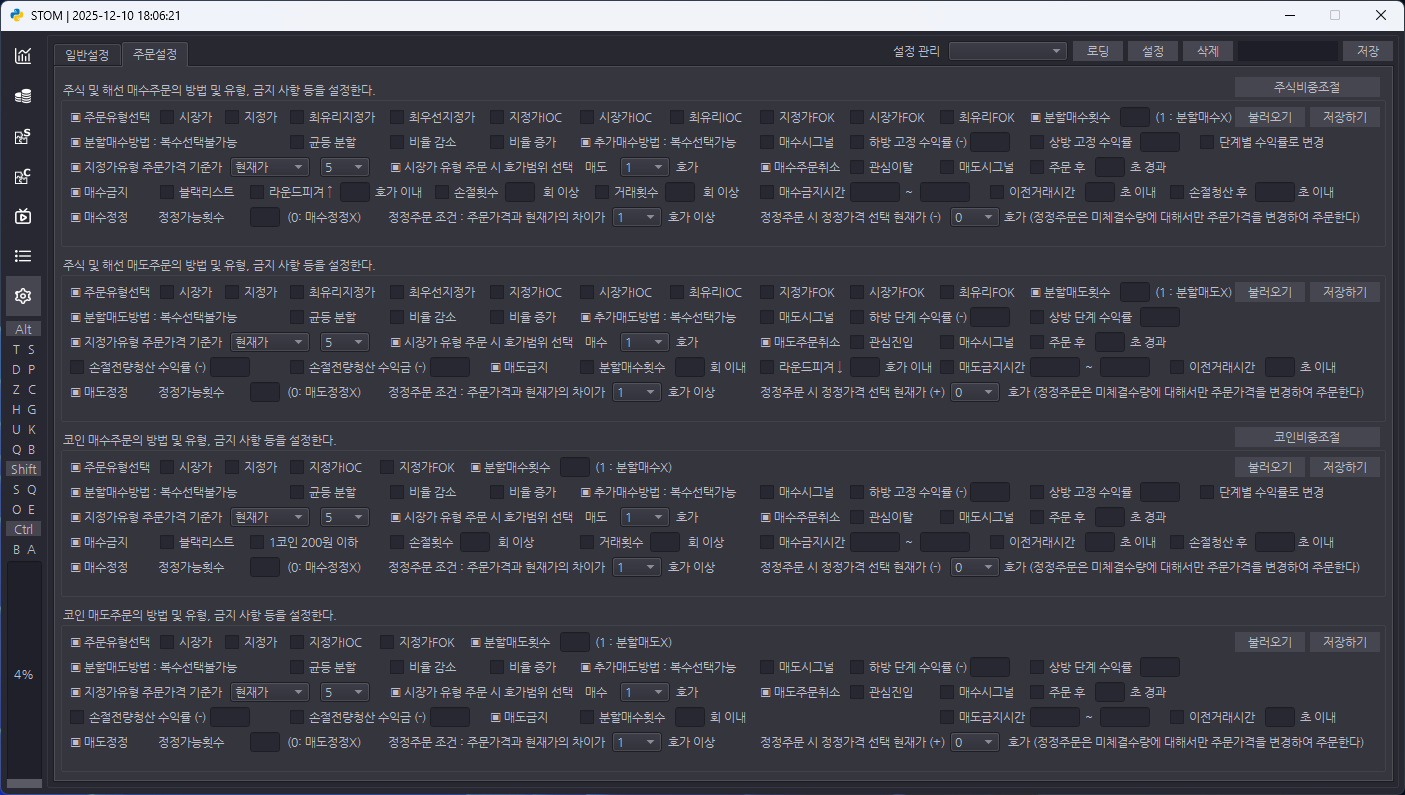
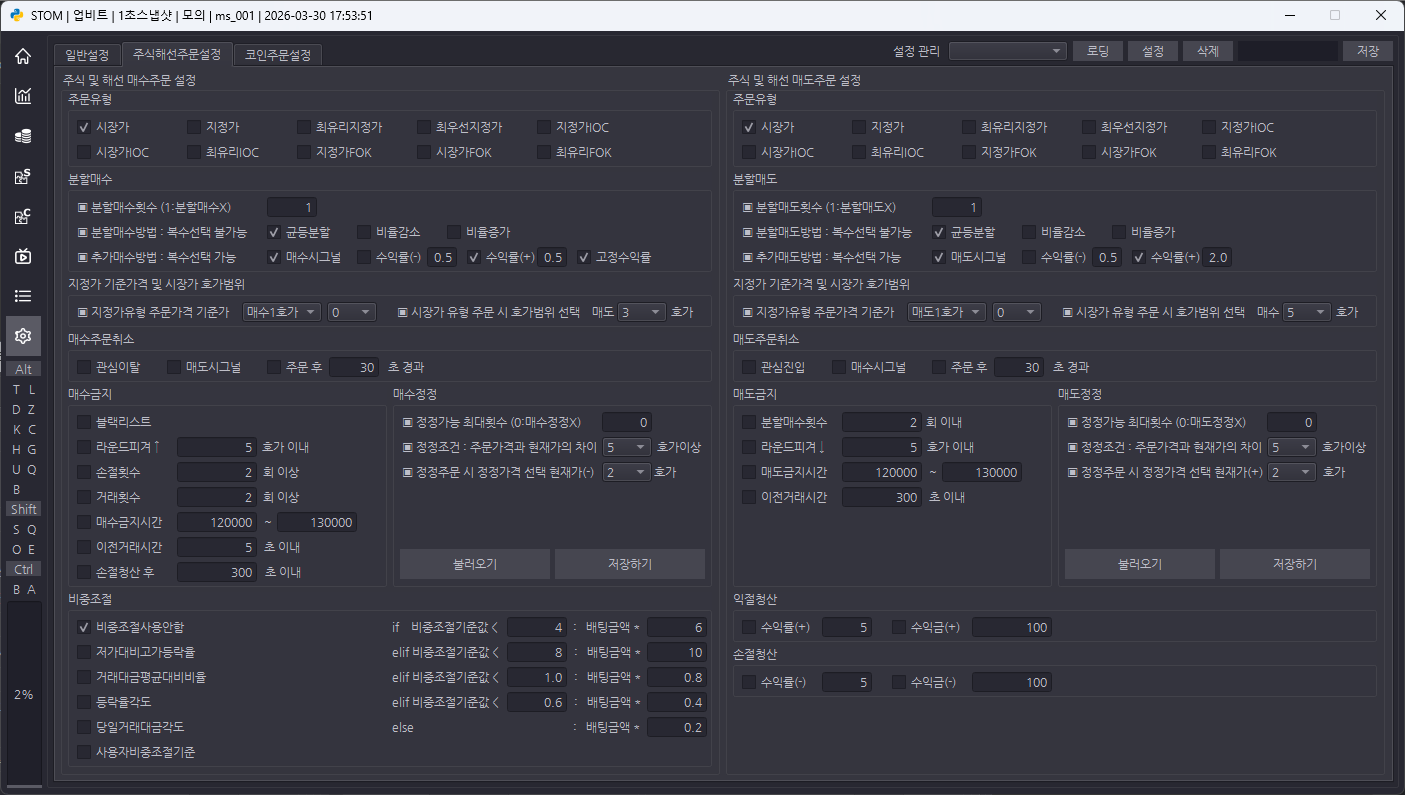
STOM V2.73
2026-03-30 V2.73
1. 실시간차트 분봉 속도 개선
2. 차트 정보창 캔들스틱에 가려지는 현상 수정
3. websocket async loop 시작 방법 변경
4. 텔레그램봇 타임아웃 5초 -> 30초로 변경 및 예외처리 강화
5. 텔레그램봇 체결목록 버튼 삭제
6. 아이템이 없는 빈 테이블에서 종목명 고정 테이블에 아이템이 남는 현상 수정
7. README.md 수정

diff --git a/ui/ui_draw_chart_base.py b/ui/ui_draw_chart_base.py
@@ -33,6 +33,7 @@ class DrawChartBase:
         self.same_time  = False
 
         self.crosshair  = CrossHair(self.ui)
+        self.cached_min_max = {}
 
         self.rgb_red    = (200, 100, 100)
         self.rgb_blue   = (100, 100, 200)
@@ -161,20 +162,66 @@ class DrawChartBase:
             }
 
     def update_ctpg_date(self):
-        if self.drop_zero_factors is None:
-            self.drop_zero_factors = self.get_drop_zero_factors()
-
-        clen = len(self.ui.ctpg_arry[0, :])
-        for i in range(clen):
-            tick_arry = self.ui.ctpg_arry[:, i]
-            if i in self.drop_zero_factors:
-                self.ui.ctpg_data[i] = tick_arry[tick_arry != 0]
-            else:
-                self.ui.ctpg_data[i] = tick_arry
+        if self.same_time:
+            self._incremental_update()
+        else:
+            self._process_all_data()
 
         tlen = len(self.ui.ctpg_arry)
         self.last = tlen - 1
         self.len_list = [tlen - len(x) for x in self.ui.ctpg_data.values()]
+
+    def _incremental_update(self):
+        for i, row in enumerate(self.ui.ctpg_arry[-1]):
+            if len(self.ui.ctpg_data[i]) > 0:
+                self.ui.ctpg_data[i][-1] = row
+
+    def _process_all_data(self):
+        if self.drop_zero_factors is None:
+            self.drop_zero_factors = self.get_drop_zero_factors()
+
+        for i, col in enumerate(self.ui.ctpg_arry.T):
+            if i in self.drop_zero_factors:
+                self.ui.ctpg_data[i] = col[col != 0]
+            else:
+                self.ui.ctpg_data[i] = col
+
+    def get_optimized_min_max(self, fidx_list):
+        fidx_tuple = fidx_list if isinstance(fidx_list, tuple) else (fidx_list,)
+        if self.same_time and fidx_tuple in self.cached_min_max:
+            self._incremental_min_max_update(fidx_tuple)
+        else:
+            self._full_min_max_calculation(fidx_tuple)
+
+    def _incremental_min_max_update(self, fidx_tuple):
+        cached_ymax, cached_ymin = self.cached_min_max[fidx_tuple]
+        new_values = []
+        for fidx in fidx_tuple:
+            if fidx in self.ui.ctpg_data and len(self.ui.ctpg_data[fidx]) > 0:
+                new_values.append(self.ui.ctpg_data[fidx][-1])
+
+        if new_values:
+            new_max = max(new_values)
+            new_min = min(new_values)
+            self.ymax = max(cached_ymax, new_max)
+            self.ymin = min(cached_ymin, new_min)
+            self.cached_min_max[fidx_tuple] = (self.ymax, self.ymin)
+        else:
+            self.ymax, self.ymin = cached_ymax, cached_ymin
+
+    def _full_min_max_calculation(self, fidx_tuple):
+        all_values = []
+        for fidx in fidx_tuple:
+            if fidx in self.ui.ctpg_data and len(self.ui.ctpg_data[fidx]) > 0:
+                all_values.extend(self.ui.ctpg_data[fidx])
+
+        if all_values:
+            self.ymax = max(all_values)
+            self.ymin = min(all_values)
+            self.cached_min_max[fidx_tuple] = (self.ymax, self.ymin)
+        else:
+            self.ymax, self.ymin = 0, 0
+            self.cached_min_max[fidx_tuple] = (0, 0)
 
     def get_drop_zero_factors(self):
         if self.is_min:
@@ -211,8 +258,7 @@ class DrawChartBase:
             if factor == '현재가':
                 if self.is_min:
                     fidx1, fidx2, fidx3, fidx4 = self.dict_idxs[factor]
-                    self.ymax = self.ui.ctpg_data[fidx3].max()
-                    self.ymin = self.ui.ctpg_data[fidx4].min()
+                    self.get_optimized_min_max((fidx3, fidx4))
                     self.draw_area(i)
                     for idx, color in zip(self.dict_idxs['이동평균'], self.sma_colors):
                         self.draw_line(i, idx, color)
@@ -221,8 +267,7 @@ class DrawChartBase:
                     if self.real: self.draw_infinite_line(i, fidx1)
                 else:
                     fidx1 = self.fi('현재가')
-                    self.ymax = self.ui.ctpg_data[fidx1].max()
-                    self.ymin = self.ui.ctpg_data[fidx1].min()
+                    self.get_optimized_min_max(fidx1)
                     self.draw_area(i)
                     for idx, color in zip(self.dict_idxs['이동평균'], self.sma_colors):
                         self.draw_line(i, idx, color)
@@ -236,8 +281,7 @@ class DrawChartBase:
             elif factor in ('초당거래대금', '분당거래대금'):
                 try:
                     fidx1, fidx2 = self.dict_idxs[factor]
-                    self.ymax = self.ui.ctpg_data[fidx1].max()
-                    self.ymin = self.ui.ctpg_data[fidx2].min()
+                    self.get_optimized_min_max((fidx1, fidx2))
                     self.draw_area(i)
                     self.draw_formula(i, factor)
                     if self.is_min:
@@ -253,8 +297,7 @@ class DrawChartBase:
                             '당일매도수금액', '최고매도수금액', '최고매도수가격', '호가총잔량', '매도수호가잔량1'):
                 try:
                     fidx1, fidx2 = self.dict_idxs[factor]
-                    self.ymax = max(self.ui.ctpg_data[fidx1].max(), self.ui.ctpg_data[fidx2].max())
-                    self.ymin = min(self.ui.ctpg_data[fidx1].min(), self.ui.ctpg_data[fidx2].min())
+                    self.get_optimized_min_max((fidx1, fidx2))
                     self.draw_area(i)
                     self.draw_formula(i, factor)
                     self.draw_line(i, fidx1, self.rgb_blue)
@@ -265,8 +308,7 @@ class DrawChartBase:
             elif factor == '체결강도':
                 try:
                     fidx1, fidx2, fidx3, fidx4 = self.dict_idxs[factor]
-                    self.ymax = max(self.ui.ctpg_data[fidx1].max(), self.ui.ctpg_data[fidx2].max())
-                    self.ymin = min(self.ui.ctpg_data[fidx1].min(), self.ui.ctpg_data[fidx3].min())
+                    self.get_optimized_min_max((fidx1, fidx2, fidx3))
                     self.draw_area(i)
                     self.draw_formula(i, factor)
                     self.draw_line(i, fidx4, self.rgb_dgray)
@@ -281,8 +323,7 @@ class DrawChartBase:
                     fidx1, fidx2 = self.dict_idxs[factor]
                     color1 = self.rgb_blue if factor in ('AROON', 'DMI') else self.rgb_red
                     color2 = self.rgb_red if factor in ('AROON', 'DMI') else self.rgb_green
-                    self.ymax = self.ui.ctpg_data[fidx1].max()
-                    self.ymin = self.ui.ctpg_data[fidx2].min()
+                    self.get_optimized_min_max((fidx1, fidx2))
                     self.draw_area(i)
                     self.draw_formula(i, factor)
                     self.draw_line(i, fidx2, color1)
@@ -293,8 +334,7 @@ class DrawChartBase:
             elif factor == 'BBAND':
                 try:
                     fidx1, fidx2, fidx3, fidx4 = self.dict_idxs[factor]
-                    self.ymax = max(self.ui.ctpg_data[fidx2].max(), self.ui.ctpg_data[fidx1].max())
-                    self.ymin = min(self.ui.ctpg_data[fidx3].min(), self.ui.ctpg_data[fidx1].min())
+                    self.get_optimized_min_max((fidx1, fidx2, fidx3))
                     self.draw_area(i)
                     self.draw_formula(i, factor)
                     self.draw_line(i, fidx4, self.rgb_gray)
@@ -307,8 +347,7 @@ class DrawChartBase:
             elif factor == 'MACD':
                 try:
                     fidx1, fidx2, fidx3 = self.dict_idxs[factor]
-                    self.ymax = max(self.ui.ctpg_data[fidx3].max(), self.ui.ctpg_data[fidx1].max(), self.ui.ctpg_data[fidx2].max())
-                    self.ymin = min(self.ui.ctpg_data[fidx3].min(), self.ui.ctpg_data[fidx1].min(), self.ui.ctpg_data[fidx2].min())
+                    self.get_optimized_min_max((fidx1, fidx2, fidx3))
                     self.draw_area(i)
                     self.draw_formula(i, factor)
                     self.draw_line(i, fidx3, self.rgb_gray)
@@ -326,8 +365,7 @@ class DrawChartBase:
                             color = self.rgb_cyan
                         elif self.gubun == 'S' and fidx1 > 67:
                             color = self.rgb_cyan
-                    self.ymax = self.ui.ctpg_data[fidx1].max()
-                    self.ymin = self.ui.ctpg_data[fidx1].min()
+                    self.get_optimized_min_max(fidx1)
                     self.draw_area(i)
                     self.draw_formula(i, factor)
                     self.draw_line(i, fidx1, color)
@@ -435,6 +473,7 @@ class DrawChartBase:
                 legend.setText(get_label_text(self.ui, True, self.gubun, self.code, self.is_min, -1, self.ui.ctpg_factors[i], self.hms))
                 legend.setFont(qfont12)
                 legend.setPos(self.xmax, self.ymax)
+                legend.setZValue(30)
                 self.ui.ctpg[i].addItem(legend)
                 self.ui.ctpg_legend[i] = legend
 

diff --git a/ui/set_widget.py b/ui/set_widget.py
@@ -27,6 +27,7 @@ def error_decorator(func):
 
 
 class CustomViewBox(pg.ViewBox):
+    """커스텀 뷰박스: 마우스 우클릭 호가창정보표시, 좌드레그 확대, 우클릭 확대복귀, 우드레그 X축 이동"""
     def __init__(self, *args, **kwds):
         pg.ViewBox.__init__(self, *args, **kwds)
         self.setMouseMode(self.RectMode)
@@ -350,6 +351,7 @@ class PlainTextEdit(QTextEdit):
 
 
 class FixedColumnTableWidget(QTableWidget):
+    """첫번째 칼럼과 동일한 별도의 자식테이블을 만들어서 부모테이블과 동기화"""
     def __init__(self, parent=None, clicked=None):
         super().__init__(parent)
         self._first_column_table = None
@@ -402,7 +404,6 @@ class FixedColumnTableWidget(QTableWidget):
         QTimer.singleShot(50, self._sync_all_data_to_child)
 
     def _sync_all_data_to_child(self):
-        """부모 테이블의 모든 데이터를 자식 테이블에 다시 동기화"""
         if not self._is_fixed or not self._first_column_table:
             return
 
@@ -476,8 +477,13 @@ class FixedColumnTableWidget(QTableWidget):
 
     def setRowCount(self, count):
         super().setRowCount(count)
-        if self._is_fixed:
+        if self._is_fixed and self._first_column_table:
             self._first_column_table.setRowCount(count)
+
+    def clearContents(self):
+        super().clearContents()
+        if self._is_fixed and self._first_column_table:
+            self._first_column_table.clearContents()
 
     def setHorizontalHeaderLabels(self, labels):
         super().setHorizontalHeaderLabels(labels)

diff --git a/trade/binance/binance_websocket.py b/trade/binance/binance_websocket.py
@@ -23,12 +23,9 @@ class WebSocketReceiver(QThread):
     def run(self):
         self.loop = asyncio.new_event_loop()
         asyncio.set_event_loop(self.loop)
-        self.loop.run_until_complete(self._run())
-
-    async def _run(self):
-        trader_task = asyncio.create_task(self.run_trade())
-        order_task = asyncio.create_task(self.run_order())
-        await asyncio.gather(trader_task, order_task)
+        self.loop.create_task(self.run_trade())
+        self.loop.create_task(self.run_order())
+        self.loop.run_forever()
 
     async def run_trade(self):
         while True:
@@ -108,11 +105,8 @@ class WebSocketTrader(QThread):
     def run(self):
         self.loop = asyncio.new_event_loop()
         asyncio.set_event_loop(self.loop)
-        self.loop.run_until_complete(self._run())
-
-    async def _run(self):
-        trader_task = asyncio.create_task(self.run_user())
-        await asyncio.gather(trader_task)
+        self.loop.create_task(self.run_user())
+        self.loop.run_forever()
 
     async def run_user(self):
         while True:

diff --git a/trade/upbit/upbit_websocket.py b/trade/upbit/upbit_websocket.py
@@ -26,12 +26,9 @@ class WebSocketReceiver(QThread):
     def run(self):
         self.loop = asyncio.new_event_loop()
         asyncio.set_event_loop(self.loop)
-        self.loop.run_until_complete(self._run())
-
-    async def _run(self):
-        trader_task = asyncio.create_task(self.run_trade())
-        order_task = asyncio.create_task(self.run_order())
-        await asyncio.gather(trader_task, order_task)
+        self.loop.create_task(self.run_trade())
+        self.loop.create_task(self.run_order())
+        self.loop.run_forever()
 
     async def run_trade(self):
         while True:

diff --git a/ui/ui_draw_crosshair.py b/ui/ui_draw_crosshair.py
@@ -81,6 +81,7 @@ class CrossHair:
             label = pg.TextItem(anchor=(0, 1), color=color_fg_bt, border=color_bg_bt, fill=color_bg_ld)
             label.setFont(qfont12)
             label.setPos(kxmin, kymin)
+            label.setZValue(30)
             self.ui.ctpg_labels.append(label)
             if k == len(self.ui.ctpg_factors) - 1:
                 break

diff --git a/backtest/backengine_kiwoom_min2.py b/backtest/backengine_kiwoom_min2.py
@@ -1,5 +1,4 @@
 
-import numpy as np
 from backtest.backengine_kiwoom_tick2 import BackEngineKiwoomTick2
 from utility.static import dt_ymdhms, GetIndicator, GetHogaunit
 # noinspection PyUnresolvedReferences

diff --git a/backtest/backengine_kiwoom_min.py b/backtest/backengine_kiwoom_min.py
@@ -1,5 +1,4 @@
 
-import numpy as np
 from backtest.backengine_kiwoom_tick import BackEngineKiwoomTick
 from utility.static import dt_ymdhms, GetIndicator, GetHogaunit
 # noinspection PyUnresolvedReferences

diff --git a/backtest/backengine_kiwoom_tick2.py b/backtest/backengine_kiwoom_tick2.py
@@ -1,5 +1,4 @@
 
-import numpy as np
 from backtest.backengine_base_oms import BackEngineBaseOms
 from utility.static import dt_ymdhms, GetHogaunit, GetKiwoomPgSgSp
 # noinspection PyUnresolvedReferences

diff --git a/backtest/backengine_kiwoom_tick.py b/backtest/backengine_kiwoom_tick.py
@@ -1,5 +1,4 @@
 
-import numpy as np
 from backtest.backengine_base import BackEngineBase
 from utility.static import GetKiwoomPgSgSp, dt_ymdhms, GetHogaunit
 # noinspection PyUnresolvedReferences

diff --git a/backtest/backengine_future_tick2.py b/backtest/backengine_future_tick2.py
@@ -1,5 +1,4 @@
 
-import numpy as np
 from backtest.backengine_base_oms import BackEngineBaseOms
 from utility.static import GetFutureLongPgSgSp, GetFutureShortPgSgSp
 

diff --git a/backtest/backengine_upbit_min2.py b/backtest/backengine_upbit_min2.py
@@ -1,5 +1,4 @@
 
-import numpy as np
 from backtest.backengine_upbit_tick2 import BackEngineUpbitTick2
 from utility.static import GetIndicator, GetUpbitHogaunit
 

diff --git a/backtest/backengine_future_tick.py b/backtest/backengine_future_tick.py
@@ -1,5 +1,4 @@
 
-import numpy as np
 from backtest.backengine_base import BackEngineBase
 from utility.static import GetFutureLongPgSgSp, GetFutureShortPgSgSp
 
